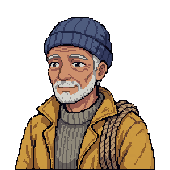
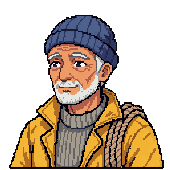
feat: 나머지 대화 초상화 7장을 170x170 격자로 재생성
워드 초상화와 같은 방식으로 128칸 원본을 늘려 생긴 고르지 않은 선을
바로잡았다. 새 워드 초상화를 함께 참고로 넘겨 머리 크기와 프레이밍을
8장이 같은 비율로 보이게 맞췄다.

diff --git a/background-generation.md b/background-generation.md
@@ -46,3 +46,17 @@ Use case: illustration-story. Asset: WordVenture title screen background, 16:9 l
 Assets/Art/Story/Portraits/WordDialogue.png: 워드 대화 초상화. 참고 이미지로 AI 원본(b7c2ed0), 현재 170x170 PNG의 4배 확대본, 전투 스프라이트 WordIdle1.png의 4배 확대본을 첨부. 생성 원본 1254x1254를 `pixelate.py --target 170x170 --keep-lines 2`로 변환.
 
 Redraw the attached reference image as true pixel art for the game WordVenture. Dialogue portrait of Word, a young red-haired mage girl with a yellow ribbon, black cloak, red scarf and a staff with a blue orb, bust shot. Keep the same composition, character design, pose and colours as the reference. Draw it on an exact 170x170 pixel grid: every art pixel is one equal square cell, then enlarge with nearest-neighbour by an integer factor. Hard edges, no anti-aliasing, no gradients, no dithering noise, no blur, flat colour clusters, limited palette of about 32 colours, clean 1-pixel dark outline. Transparent background. No text, UI or logos. Match the palette and density of the other attached game art.
+
+### 대화 초상화 7장
+
+Assets/Art/Story/Portraits/{Fisherman,Guard,Guide,Shepherd,Villager,SlimeKing,UndeadSlimeKing}Dialogue.png. 참고 이미지로 AI 원본(b7c2ed0), 현재 170x170 PNG의 4배 확대본, 재생성한 WordDialogue.png의 4배 확대본을 첨부. 생성 원본 1254x1254를 `pixelate.py --target 170x170 --keep-lines 2`로 변환. 프롬프트는 아래 틀에서 캐릭터 설명 한 줄만 바꿨다.
+
+Attached: (1) the original dialogue portrait of this character (composition, design and colour reference), (2) the current in-game 170x170 version enlarged 4x, (3) the already approved dialogue portrait of the heroine Word, enlarged 4x: match its pixel density, outline style, palette treatment, head size and bust framing exactly so all portraits look like one set.  Redraw the attached reference image as true pixel art for the game WordVenture. [캐릭터 설명] Keep the same composition, character design, pose and colours as the reference. Draw it on an exact 170x170 pixel grid: every art pixel is one equal square cell, then enlarge with nearest-neighbour by an integer factor. Hard edges, no anti-aliasing, no gradients, no dithering noise, no blur, flat colour clusters, limited palette of about 32 colours, clean 1-pixel dark outline. Transparent background. No text, UI or logos. Match the palette and density of the other attached game art.
+
+- Fisherman: Dialogue portrait of an old fisherman with tanned skin, white beard, blue knit beanie, yellow oilskin coat over a grey knit sweater and a coiled rope on his shoulder, bust shot.
+- Guard: Dialogue portrait of a young black-haired guard with grey eyes and a scar on the cheek, chainmail armour, teal cloak, a leather strap across the chest and a steel helmet held under the arm, bust shot.
+- Guide: Dialogue portrait of an old bald sage with a long blue-grey beard and closed eyes, olive green robe with ochre mantle, holding a wooden staff topped by a gold ring with a small teal cube, bust shot.
+- Shepherd: Dialogue portrait of a shy young shepherd boy with messy brown hair and blushing cheeks, cream tunic with brown hood, holding a wooden shepherd's crook, bust shot.
+- Villager: Dialogue portrait of a young village woman with wavy auburn hair tied back, brown eyes, brown shawl over a cream blouse and green laced bodice, one hand raised to her chest, bust shot.
+- SlimeKing: Dialogue portrait of the Slime King boss: a large dark crimson glossy slime with two curved horns, a small gold crown with red gems, a smug grin and a devil tail on the right, front view.
+- UndeadSlimeKing: Dialogue portrait of the Undead Slime King boss: a pale grey-green cracked slime with glowing green cracks and eyes, an angry snarl, two black horns, a dark tarnished crown and a devil tail on the right, front view.

diff --git a/.agents/skills/pixel-art/regen-candidates.md b/.agents/skills/pixel-art/regen-candidates.md
@@ -14,20 +14,6 @@ python3 .agents/skills/pixel-art/scripts/pixelate.py <codex 출력>.png <대상>
 
 재생성해서 교체하면 이 목록에서 지운다.
 
-## 대화 초상화: 128칸 격자로 그려진 원본을 170칸으로 늘려 선 두께가 고르지 않음
-
-대상 170x170, 옵션 `--keep-lines 2`, 투명 배경. 화면에서는 680x680px로 보인다.
-
-| 에셋 | 비고 |
-|---|---|
-| `Assets/Art/Story/Portraits/FishermanDialogue.png` | |
-| `Assets/Art/Story/Portraits/GuardDialogue.png` | |
-| `Assets/Art/Story/Portraits/GuideDialogue.png` | |
-| `Assets/Art/Story/Portraits/ShepherdDialogue.png` | |
-| `Assets/Art/Story/Portraits/VillagerDialogue.png` | |
-| `Assets/Art/Story/Portraits/SlimeKingDialogue.png` | |
-| `Assets/Art/Story/Portraits/UndeadSlimeKingDialogue.png` | |
-
 ## 원본에 4px 디테일이 없어 블록이 크게 남는 것
 
 | 에셋 | 대상 | 옵션 | 현재 상태 |
@@ -51,3 +37,4 @@ python3 .agents/skills/pixel-art/scripts/pixelate.py <codex 출력>.png <대상>
 
 - 워드 전투 스프라이트 7프레임(`Assets/Art/Combat/Word/`): `--keep-lines 2`로 다시 변환해 외곽선이 닫힘
 - 워드 대화 초상화(`Assets/Art/Story/Portraits/WordDialogue.png`): Codex image_gen으로 재생성해 `--target 170x170 --keep-lines 2`로 변환. 나머지 초상화 7장의 머리 크기와 프레이밍 기준
+- 대화 초상화 7장(Fisherman, Guard, Guide, Shepherd, Villager, SlimeKing, UndeadSlimeKing): 새 WordDialogue.png를 프레이밍 기준으로 함께 첨부해 재생성하고 `--target 170x170 --keep-lines 2`로 변환
